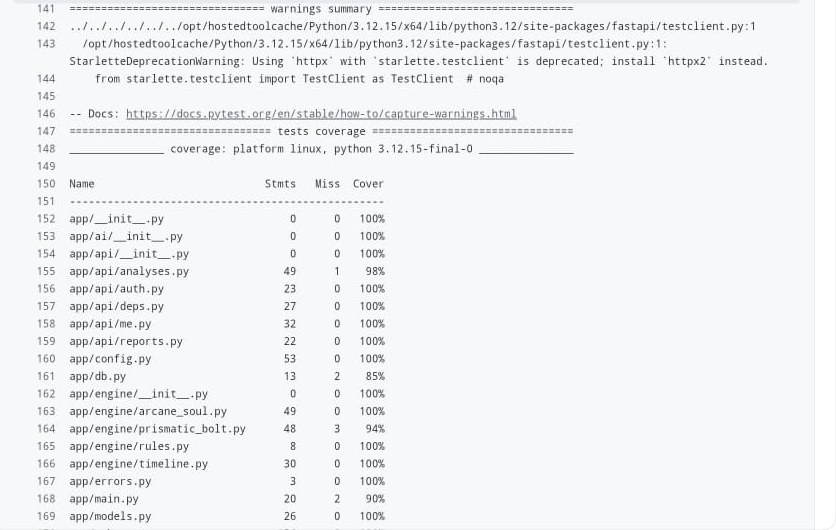
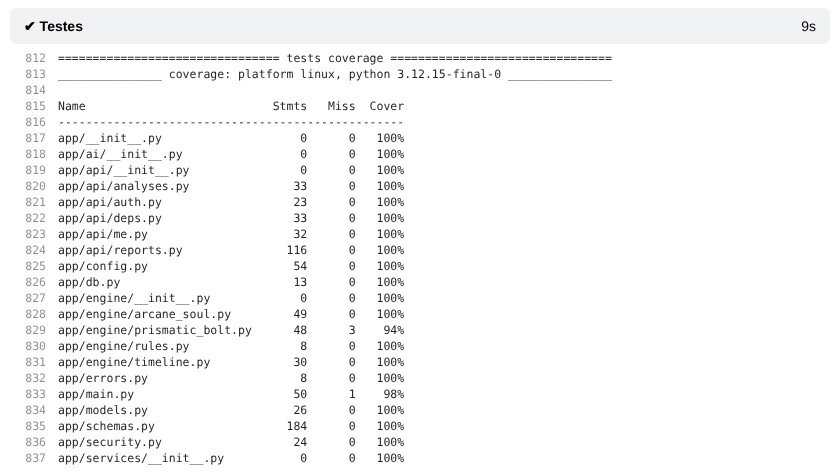
docs(testes): números do 10.3 e do 11 com a execução de 03/11 (434 testes, 98%)
Claude-Session: https://claude.ai/code/session_011rdxSCjJ2cw4kYQeYKcYoq

Changed region(s): [[0.0311, 0.0, 0.9019, 1.0], [0.933, 0.0295, 0.9641, 0.0591], [0.2488, 0.9451, 0.2799, 0.9747]]

diff --git a/docs/10-relatorio-de-testes.md b/docs/10-relatorio-de-testes.md
@@ -42,24 +42,26 @@ T03–T05, T07 e T11–T14 dependem do motor e da IA (frentes C e D).
 
 ## 10.3 Resultado
 
-Execução no CI do GitHub, com `pytest -v --cov=app` (PR #22, 28/10/2026, Python 3.12, pytest 9.2).
+Execução no CI do GitHub, com `pytest -v --cov=app` (PR #22 com a `main` de 03/11/2026, Python 3.12, pytest 9.2). As imagens abaixo reproduzem trechos do log do job `backend (ubuntu-latest)`; no Windows o resultado foi o mesmo.
 
 | Total | Passaram | Falharam | Cobertura |
 | ----- | -------- | -------- | --------- |
-| 120   | 120      | 0        | 94% do backend; 98% do motor de análise (`app/engine/`) |
+| 434   | 434      | 0        | 98% do backend; 98% do motor de análise (`app/engine/`) |
 
 O único aviso da execução ("1 warning") é de uma biblioteca de teste (o cliente de testes do FastAPI anuncia uma troca de dependência no futuro). Não é falha.
 
-Os arquivos com menos cobertura são `app/wcl/fetch.py` (36%), que faz as chamadas reais ao Warcraft Logs e é testado com dados salvos em arquivo, e `app/db.py` (85%).
+O número de testes passa dos 120 de 28/10 para 434 com a integração completa com o Warcraft Logs (PRs #25 e #26). O total conta cada caso dos testes parametrizados (o mesmo teste com entradas diferentes).
 
-**Início da execução: 120 testes coletados**
+Os arquivos com menos cobertura são `app/wcl/fetch.py` (84%), que faz as chamadas reais ao Warcraft Logs e é testado com dados salvos em arquivo, `app/wcl/anonymize.py` (93%) e `app/engine/prismatic_bolt.py` (94%).
 
-![Saída do pytest no CI: plataforma, plugin de cobertura e "collected 120 items", seguido dos primeiros testes com PASSED](.gitbook/assets/10-3-pytest-inicio.jpg)
+**Início da execução: 434 testes coletados**
+
+![Saída do pytest no CI: plataforma, plugin de cobertura e "collected 434 items", seguido dos primeiros testes com PASSED](.gitbook/assets/10-3-pytest-inicio.jpg)
 
 **Cobertura por arquivo**
 
 ![Tabela de cobertura do pytest-cov com os arquivos da API, do motor e dos serviços](.gitbook/assets/10-3-pytest-cobertura.jpg)
 
-**Resumo: 120 passaram, cobertura total de 94%**
+**Resumo: 434 passaram, cobertura total de 98%**
 
-![Final da tabela de cobertura com TOTAL 914 linhas, 56 sem teste, 94%, e a linha "120 passed, 1 warning in 2.51s"](.gitbook/assets/10-3-pytest-resumo.jpg)
+![Final da tabela de cobertura com TOTAL 1717 linhas, 34 sem teste, 98%, e a linha "434 passed, 1 warning in 8.60s"](.gitbook/assets/10-3-pytest-resumo.jpg)

diff --git a/docs/11-metricas-de-qualidade.md b/docs/11-metricas-de-qualidade.md
@@ -4,8 +4,8 @@
 
 | Métrica | Meta | Como medir | Resultado |
 |---|---|---|---|
-| Testes passando | 100% | `pytest` no CI | **100%** — 120 de 120 testes do backend passando, 0 falhas (CI do PR #22, 28/10). Print da saída no item 10.3 |
-| Cobertura de testes do motor de análise | ≥ 70% | `pytest --cov=app/engine` | **98%** — 135 linhas em `app/engine/`, 3 sem teste; backend inteiro 94% (CI, 28/10; ver 10.3) |
+| Testes passando | 100% | `pytest` no CI | **100%** — 434 de 434 testes do backend passando, 0 falhas (CI do PR #22, 03/11). Print da saída no item 10.3 |
+| Cobertura de testes do motor de análise | ≥ 70% | `pytest --cov=app/engine` | **98%** — 135 linhas em `app/engine/`, 3 sem teste; backend inteiro 98% (CI, 03/11; ver 10.3) |
 | Erros de lint | 0 | `ruff check` e `eslint` no CI | **0** — CI verde no backend e no frontend (`main` em `b842fcf`, 28/10) |
 | Tempo de carregamento das páginas | < 3 s (RNF01) | DevTools do navegador | **0,7 s em 4G e 1,8 s em 3G rápido** — tela inicial, build de produção (mediana de 5 medições, ver 11.1) |
 | Tempo de uma análise completa | < 2 min (RNF02) | Log do backend | |
